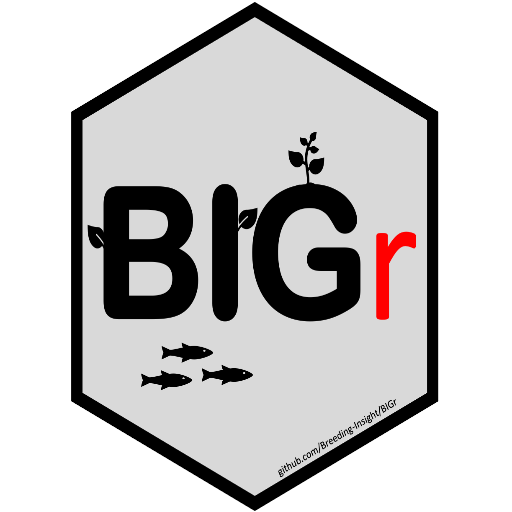
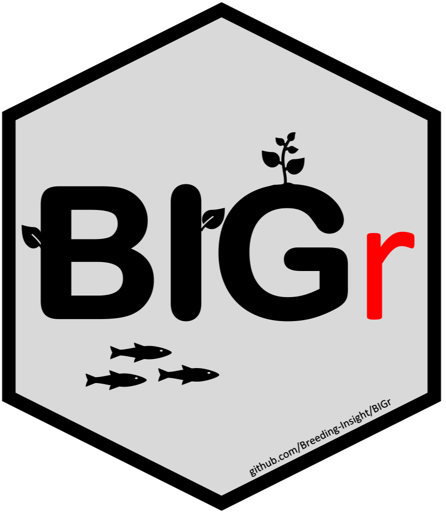
Explain MADC files and tidy the landing page copy
Add a section on what MADC files contain and why multi-allelic data is
useful, placed above "How HapApp works". Reword "species database" and
"different orders" per reviewer feedback, and replace the stretched BIGr
logo with the official one from the BIGr README.

diff --git a/landing/index.html b/landing/index.html
@@ -123,6 +123,7 @@
       .section-head { max-width: 72ch; margin-bottom: 36px; }
       .section-head h2 { font-size: clamp(1.5rem, 1.2rem + 1.2vw, 2rem); letter-spacing: -0.015em; margin-bottom: 12px; }
       .section-head p { color: var(--ink-muted); font-size: 1.0625rem; }
+      .section-head p + p { margin-top: 12px; }
 
       .grid { display: grid; gap: 20px; }
       .grid-3 { grid-template-columns: repeat(3, 1fr); }
@@ -286,7 +287,33 @@
         </div>
       </section>
 
-      <section class="band" id="how" aria-labelledby="how-title">
+      <section class="band" id="madc" aria-labelledby="madc-title">
+        <div class="wrap">
+          <div class="section-head" style="margin-bottom:0">
+            <h2 id="madc-title">What makes MADC files different?</h2>
+            <p>
+              Most genotyping reports reduce each marker to two alleles, a reference and an alternative,
+              discarding any additional variation found at that locus. A DArTag Missing Allele Discovery Count
+              (MADC) report contains all alleles, including those &ldquo;missing&rdquo; from the initial panel
+              design, which are now recognized as newly discovered variants. Specifically, an MADC report retains
+              the full microhaplotype sequences found at each marker locus, along with read counts for every
+              allele at every locus across every sample. This means a single locus can carry many alleles rather
+              than just two, preserving the full scope of genetic variation captured by the sequencing read.
+              HapApp works directly with this multi-allelic data by processing the microhaplotype sequences in
+              the MADC report, rather than collapsing them to biallelic SNPs before analysis.
+            </p>
+            <p>
+              The practical advantage of keeping multi-allelic data is that nearby SNPs within a sequencing read
+              are inherited together on the same genomic segment. Therefore, the combination of variants is
+              recorded rather than each variant being called independently. Collapsing into a single SNP
+              discards this co-occurrence information, reducing a potentially highly informative multi-allelic
+              marker to a simple presence/absence call.
+            </p>
+          </div>
+        </div>
+      </section>
+
+      <section class="band alt" id="how" aria-labelledby="how-title">
         <div class="wrap split">
           <div class="section-head" style="margin-bottom:0">
             <h2 id="how-title">How HapApp works</h2>
@@ -309,7 +336,7 @@
             </li>
             <li>
               <strong>Fixed IDs.</strong>
-              Each microhaplotype is compared with the species database using BLAST. Known microhaplotypes keep
+              Each microhaplotype is compared with the database for your species using BLAST. Known microhaplotypes keep
               their established IDs, new ones get new unique IDs, and duplicate sequences are merged so each has
               exactly one ID.
             </li>
@@ -323,13 +350,13 @@
         </div>
       </section>
 
-      <section class="band alt" id="why" aria-labelledby="why-title">
+      <section class="band" id="why" aria-labelledby="why-title">
         <div class="wrap">
           <div class="section-head" style="margin-bottom:0">
             <h2 id="why-title">Why process against a public reference?</h2>
             <p>
               DArTag reports name alleles project by project, so the same microhaplotype can carry different
-              labels in different orders, even within your own program. Processing against the public database
+              labels in different projects, even within your own program. Processing against the public database
               gives each microhaplotype one permanent ID. You can combine data across years and projects,
               compare your germplasm with other programs, and move straight into downstream analysis.
             </p>
@@ -337,7 +364,7 @@
         </div>
       </section>
 
-      <section class="band" id="database" aria-labelledby="database-title">
+      <section class="band alt" id="database" aria-labelledby="database-title">
         <div class="wrap split">
           <div>
             <div class="section-head" style="margin-bottom:0">
@@ -367,7 +394,7 @@
         </div>
       </section>
 
-      <section class="band alt" id="tools" aria-labelledby="tools-title">
+      <section class="band" id="tools" aria-labelledby="tools-title">
         <div class="wrap">
           <div class="section-head">
             <h2 id="tools-title">Continue your analysis with Breeding Insight tools</h2>
